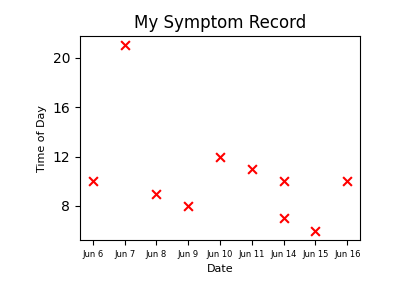
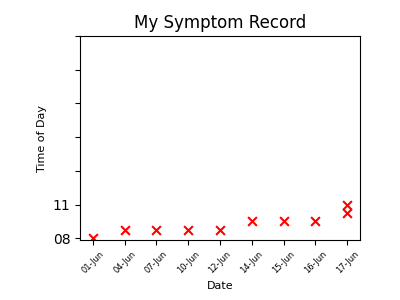
add an example user and generate graphs dynamically based on that user

diff --git a/application/templates/display_record.html b/application/templates/display_record.html
@@ -2,20 +2,20 @@
 
 {% block main_content %}
 
-Record Displayed
-
-<p>Date & Time symptom recorded and details...</p>
-
-{% for nested_symptom_data in symptom_list %}
-<table>
-	<tr>
-		<td>{{ nested_symptom_data[0] }}</td>
-		<td>{{ nested_symptom_data[1] }}</td>
-		<td>{{ nested_symptom_data[2] }}</td>
-	</tr>
-</table>
-{% endfor %}
+<h2>My Symptom Record Displayed</h2>
 
 <img src="{{ url_for('static', filename='./images/scatterplot.png') }}" alt="scatterplot showing symptom change over time">
+
+<p>Details <i>(most recent first)</i>:</p>
+
+{% for nested_symptom_data in list_of_symptoms %}
+<ul>
+	<li>{{ nested_symptom_data[0] }}, {{ nested_symptom_data[1] }}
+		<ul>
+			<li>{{ nested_symptom_data[2] }}</li>
+		</ul>
+	</li>
+</ul>
+{% endfor %}
 
 {% endblock %}

diff --git a/application/templates/record.html b/application/templates/record.html
@@ -9,16 +9,6 @@
       {{ form.hidden_tag() }}
 
           <div class="mb-3">
-            <label for="username" class="form-label">{{ form.username.label }}</label>
-            <input type="text" class="form-control" id="username" name='username' placeholder="myname">
-          </div>
-      
-          <div class="mb-3">
-            <label for="password" class="form-label">{{ form.password.label }}</label>
-            <input type="text" class="form-control" id="password" name='password' placeholder="test">
-          </div>
-
-          <div class="mb-3">
             <label for="symptoms" class="form-label">Record your symptoms here</label>
             <br>
             <p>Are you in pain?</p>

diff --git a/application/routes.py b/application/routes.py
@@ -6,7 +6,12 @@ from application.forms import LoginForm, RecordForm, McgillForm
 from application.summarize_ai import summarize_with_ai
 from application.scatterplot import scatterplot
 from application.bubbleplot import bubbleplot
+from application.data_format import Data_format
 from datetime import datetime
+
+# This is a demonstration app to showcase my skills in Python, Flask, PostgreSQL, HTML, CSS, and JavaScript.
+# I do not yet know how to code a secure login system, so I am using a global variable to store the user_id.
+my_user_id = 0
 
 @app.route('/')
 def index():
@@ -27,17 +32,10 @@ def record():
            f.write(date_time_str + '<br>' + symptoms + '<br>' + 'Pain=' + str(pain) + '<br>')
 
         # capture symptom record in database
-        username = form.username.data
-        password = form.password.data
-        user_id = Symptom_log.check_username_password_exist(username, password)
-        if user_id == False:
-            error = "Please enter username and password"
-        else:
-            now = datetime.now()
-            date = now.strftime("%Y-%m-%d")
-            time = now.strftime("%H:%M")
-            data_added = Symptom_log.add_a_symptom(user_id, symptoms, date, time)
-            print('data added', data_added)
+        now = datetime.now()
+        date = now.strftime("%Y-%m-%d")
+        time = now.strftime("%H:%M")
+        Symptom_log.add_a_symptom(my_user_id, symptoms, date, time)
         if mcgill == 'True':
             return render_template('record_pain.html', title="Record Pain")
         else: 
@@ -55,6 +53,7 @@ def login():
         if user_id == 'False':
             error = "Please enter username and password"
         else:
+            my_user_id = user_id
             return render_template('login_success.html', title="Login Success")
     else:
         return render_template('login.html', title="Log in page", form=form, error=error)
@@ -64,10 +63,18 @@ def display_record():
     # display the txt file
     with open('./file_output/symptoms.txt', 'r') as f:
         content = f.read()
-    # display the database results
+    # display the database results using the example user_id=2
     symptom_list = Symptom_log.get_symptoms(user_id=2)
-    scatterplot()
-    return render_template('display_record.html', title="Symptom Record", content=content, symptom_list=symptom_list)
+    scatterplot(symptom_list)
+    list_of_symptom_data = []
+    for symptom in symptom_list:
+        symptom_data = []
+        symptom_data.append(Data_format.us_to_uk_date_format(symptom[0]))
+        symptom_data.append(Data_format.remove_seconds_notation(symptom[1]))
+        symptom_data.append(symptom[2])
+        list_of_symptom_data.append(symptom_data)
+        symptom_data_to_display = reversed(list_of_symptom_data)
+    return render_template('display_record.html', title="Symptom Record", content=content, list_of_symptoms=symptom_data_to_display)
 
 @app.route('/display_summary')
 def display_summary():

diff --git a/application/scatterplot.py b/application/scatterplot.py
@@ -1,26 +1,31 @@
 import matplotlib.pyplot as plt
 import matplotlib.ticker as ticker
+from application.data_format import Data_format
 
-def scatterplot():
-    #plt.switch_backend('Agg') # this changes where the computer generates the chart because that caused a problem on the Mac but not on windows
+def scatterplot(symptom_list):
+    date_time_list = Data_format.reformat_for_scatterplot(symptom_list)
+    date_list = []
+    time_list = []
+    for symptom_data in date_time_list:
+        date_list.append(symptom_data[0])
+        time_list.append(symptom_data[1])
 
-    # date and time are hard-coded for example because I do not yet have a database set-up that I can query using sql, from which I can create a pandas dataframe with results
-    date = ['Jun 6', 'Jun 7', 'Jun 8', 'Jun 9', 'Jun 10', 'Jun 11', 'Jun 14', 'Jun 14', 'Jun 15', 'Jun 16']
-    time = [10, 21, 9, 8, 12, 11, 10, 7, 6, 10]
+    plt.switch_backend('Agg') # this changes where the computer generates the chart because that caused a problem on the Mac but not on windows
 
     plt.figure(figsize=(4, 3))
     ax=plt.subplot()
     plt.subplots_adjust(bottom = 0.2, left = 0.2)
 
+    plt.scatter(date_list, time_list, marker='x', color='red', s=40)
 
-    plt.scatter(date, time, marker='x', color='red', s=40)
-
-    ax.xaxis.set_major_locator(ticker.MultipleLocator(1)) #this sets the x-axis to show every 1 day  
-    ax.yaxis.set_major_locator(ticker.MultipleLocator(4)) #this sets the y-axis to show every 1 hour
+    #ax.set_ylim([0, 24])  # This sets the limits of y-axis from 0 to 24
+    ax.set_yticks([0, 4, 8, 12, 16, 20, 24]) # This sets the y-axis to show every 4 hours
+    #ax.xaxis.set_major_locator(ticker.MultipleLocator(1)) #this sets the x-axis to show every 1 day  
+    #ax.yaxis.set_major_locator(ticker.MultipleLocator(4)) #this sets the y-axis to show every 1 hour
     
-    plt.xticks(fontsize=6)
+    plt.xticks(fontsize=6, rotation=45)
     plt.xlabel('Date', fontsize=8)
-    plt.ylabel('Time of Day', fontsize=8, )
+    plt.ylabel('Time of Day', fontsize=8)
     plt.title('My Symptom Record')
     
     plt.savefig('application/static/images/scatterplot.png')

diff --git a/application/database_use.py b/application/database_use.py
@@ -1,5 +1,6 @@
 import psycopg2
 from datetime import datetime
+from application.data_format import Data_format
 
 print('Connecting to the PostgreSQL database...')
 # symptom_log is the name of both my database and the schema within it
@@ -39,24 +40,7 @@ class Symptom_log:
         cur.execute("select date, time, symptom_details from symptom_log.symptom_collection where user_id = %s;", (user_id,)) 
         # note the comma after user_id, this is because the execute() function expects a tuple of parameters, even if there is only one parameter
         # The execute() function in psycopg2, which is a PostgreSQL adapter for Python, expects a SQL query string and then a tuple (or dictionary in some cases) of parameters to substitute into the SQL query.
-        rows = cur.fetchall()
-        symptoms = []
-        for row in rows:
-            retrieved_symptom = []
-            # change the date format of row[0] to be day month year
-            date = str(row[0])
-            date = datetime.strptime(date, '%Y-%m-%d')
-            date = date.strftime('%d %B %Y')
-            retrieved_symptom.append(date)
-            # change the time format of row[1] to be hour:minute
-            time = str(row[1])
-            time = datetime.strptime(time, '%H:%M:%S')
-            time = time.strftime('%H:%M')
-            retrieved_symptom.append(time)
-            # add symptom data
-            retrieved_symptom.append(row[2])
-            # add the symptom to the list of symptoms
-            symptoms.append(retrieved_symptom)
+        symptoms = cur.fetchall()
         return symptoms
     
     def add_a_symptom_summary(user_id, symptoms_summary, symptoms_start_date, symptoms_end_date):

diff --git a/application/static/scripts/database_create_example_user.py b/application/static/scripts/database_create_example_user.py
@@ -35,7 +35,7 @@ cur.execute("insert into symptom_log.symptom_collection (user_id, date, time, sy
 cur.execute("insert into symptom_log.symptom_collection (user_id, date, time, symptom_details) values (%s, %s, %s, %s);", (user_id, '2022-06-15', '06:30', 'woke up with a splitting headache'))
 cur.execute("insert into symptom_log.symptom_collection (user_id, date, time, symptom_details) values (%s, %s, %s, %s);", (user_id, '2022-06-16', '06:01', 'really bad headache'))
 cur.execute("insert into symptom_log.symptom_collection (user_id, date, time, symptom_details) values (%s, %s, %s, %s);", (user_id, '2022-06-17', '04:01', 'woke up with headache'))
-cur.execute("insert into symptom_log.symptom_collection (user_id, date, time, symptom_details) values (%s, %s, %s, %s);", (user_id, '2022-06-17', '11:45', 'headache still there and I can\'t sleep'))
+cur.execute("insert into symptom_log.symptom_collection (user_id, date, time, symptom_details) values (%s, %s, %s, %s);", (user_id, '2022-06-17', '23:45', 'headache still there and I can\'t sleep'))
 conn.commit()
 
 # Close the cursor and connection

diff --git a/application/data_format.py b/application/data_format.py
@@ -1,0 +1,33 @@
+from datetime import datetime
+
+class Data_format():
+
+	def reformat_for_scatterplot(retrieved_symptoms):
+		date_time_list = []
+		for date_time in retrieved_symptoms:
+			symptom_time = []
+			# change the date format of date returned in row[0] to be a uk format
+			date = Data_format.us_to_uk_date_format(date_time[0])
+			symptom_time.append(date)
+			# remove seconds from time returned in row[1]
+			time = Data_format.remove_minutes_notation(date_time[1])
+			symptom_time.append(time)
+			date_time_list.append(symptom_time)
+		return date_time_list
+    
+	def us_to_uk_date_format(date):
+		date_time_format = datetime.strptime(str(date), '%Y-%m-%d')
+		#uk_date = date_time_format.strftime('%d %B %Y') # returns uk date format
+		uk_date = date_time_format.strftime('%d-%b') # returns nice day/ month format
+		return uk_date
+
+	def remove_seconds_notation(time):
+		time = str(time)
+		time = time[:-3]
+		return time
+	
+	def remove_minutes_notation(time):
+		time = str(time)
+		time = time[:-6]
+		return time
+	

diff --git a/application/forms.py b/application/forms.py
@@ -1,6 +1,6 @@
 from wtforms import SubmitField, StringField, RadioField, SelectMultipleField
 from flask_wtf import FlaskForm
-from application.mcgill_pain_questionnaire import mcgill_feels_like
+# from application.static.scripts.mcgill_pain_questionnaire import mcgill_feels_like
 
 class LoginForm(FlaskForm):
     username = StringField('Username')
